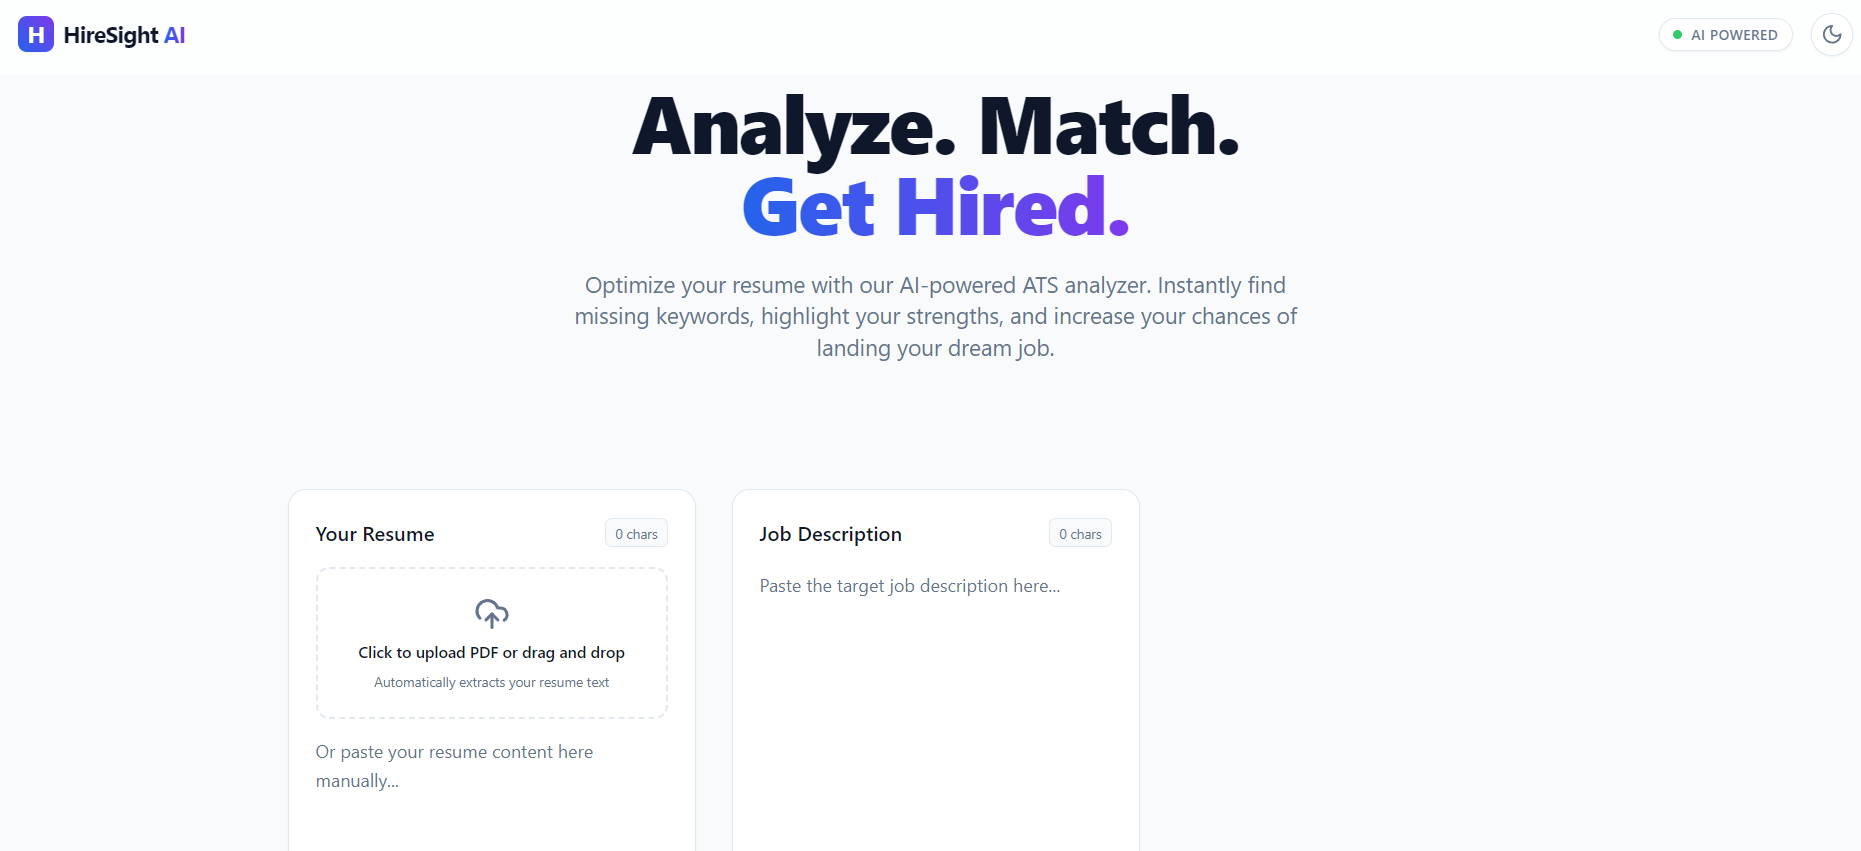
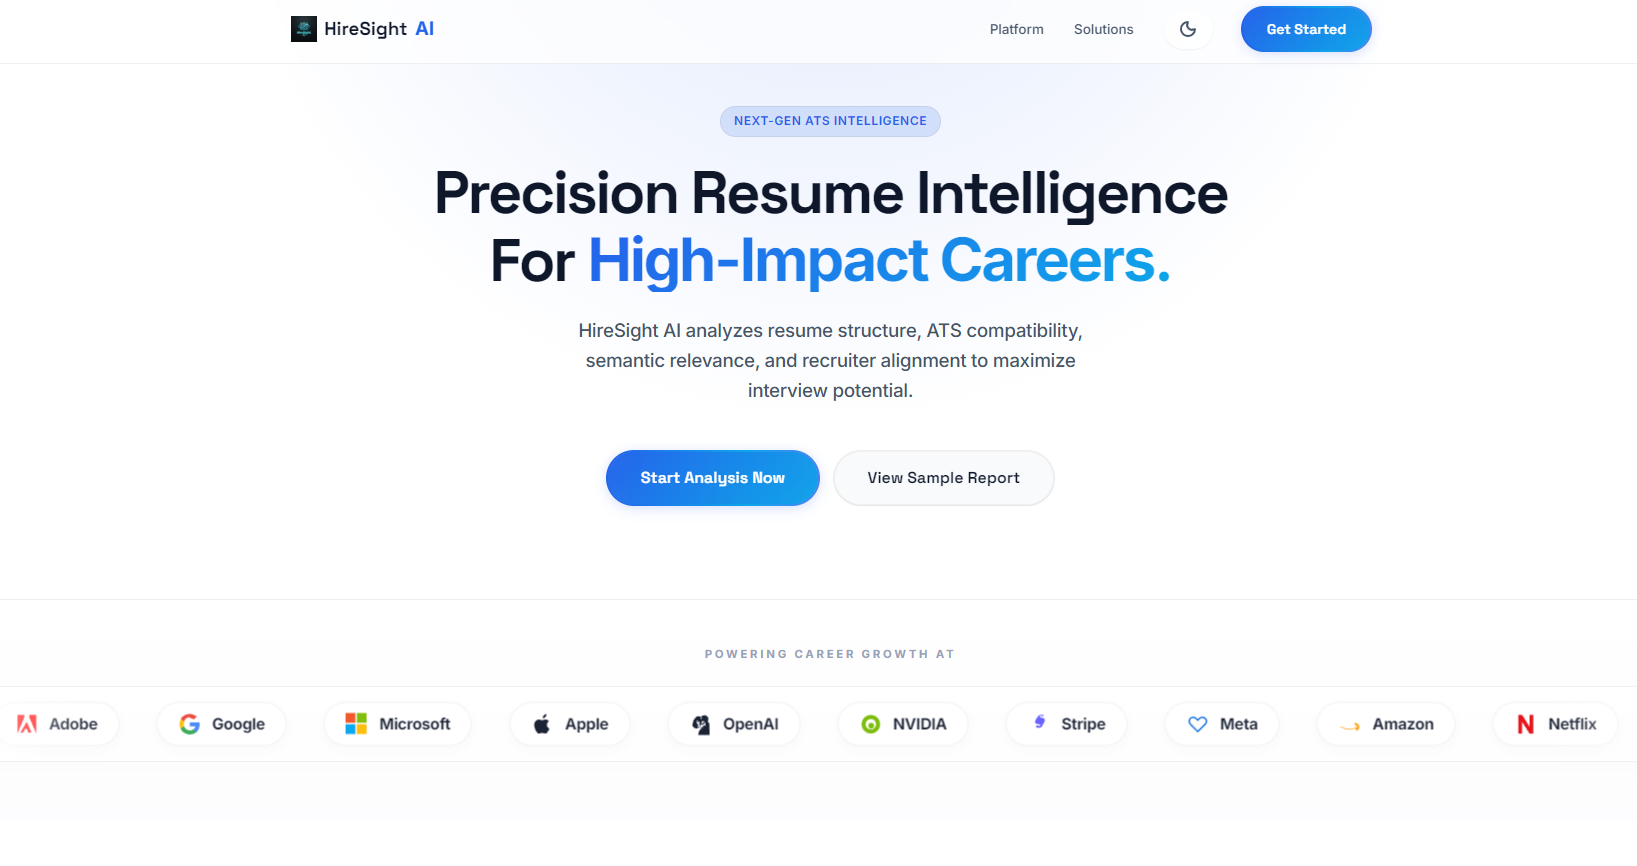
feat: add hiresight image on work.js

diff --git a/src/Work.js b/src/Work.js
@@ -32,7 +32,7 @@ const REPO_IMAGES = {
   'quiz-web': '/quiz-web.png',
   'studytra': '/studytra.png',
   'sahasrajit-foundation': '/sahasrajit-foundation.png',
-  'Hiresight-ai': '/Hiresight-ai.png',
+  'Hiresight-ai': '/HireSight-AI.png',
   'LocalCare-Finder-Android': '/LocalCare-Finder-Android.jpeg',
   'NEURAL-RIFT': '/NEURAL-RIFT.png',
   'HyperLane': '/HyperLane.jpeg',
